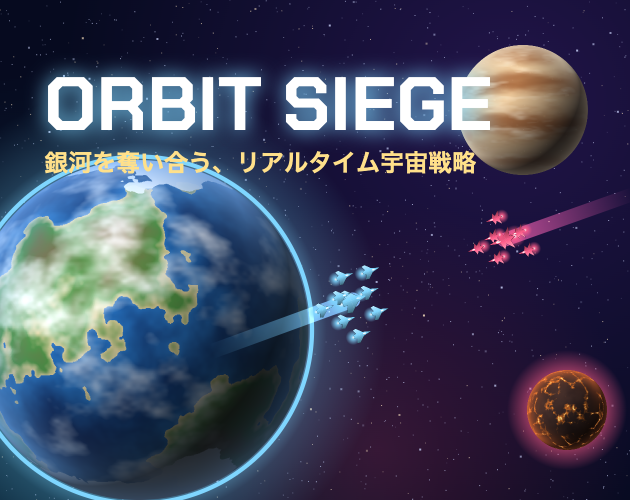
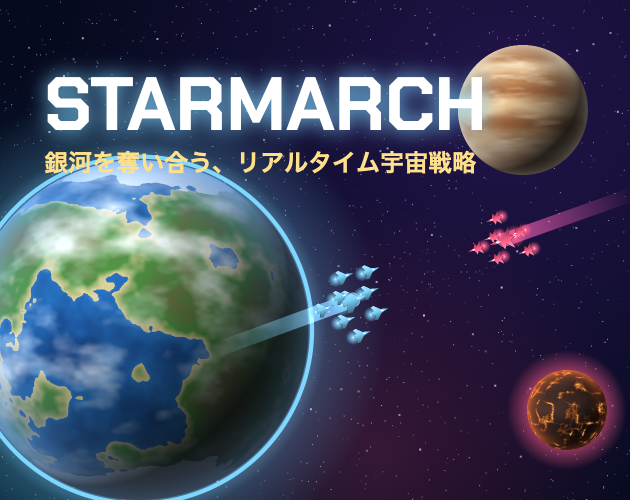
Rename to Starmarch, regenerate cover art

Changed region(s): [[0.0, 0.33, 0.4524, 0.96], [0.0603, 0.09, 0.9048, 0.27], [0.8444, 0.72, 0.9651, 0.9]]

diff --git a/public/index.html b/public/index.html
@@ -8,11 +8,11 @@
 <meta name="apple-mobile-web-app-capable" content="yes">
 <meta name="mobile-web-app-capable" content="yes">
 <meta name="apple-mobile-web-app-status-bar-style" content="black-translucent">
-<meta name="apple-mobile-web-app-title" content="Orbit Siege">
+<meta name="apple-mobile-web-app-title" content="Starmarch">
 <link rel="manifest" href="manifest.webmanifest">
 <link rel="icon" type="image/png" sizes="192x192" href="icons/icon-192.png">
 <link rel="apple-touch-icon" href="icons/apple-touch-icon.png">
-<title>Orbit Siege</title>
+<title>Starmarch</title>
 <link rel="preconnect" href="https://fonts.googleapis.com">
 <link rel="preconnect" href="https://fonts.gstatic.com" crossorigin>
 <link rel="stylesheet" href="https://fonts.googleapis.com/css2?family=Chakra+Petch:wght@500;700&family=Zen+Kaku+Gothic+New:wght@400;700;900&display=swap">
@@ -1269,7 +1269,7 @@ function gameOver(quit,why){
 }
 function titleScreen(){
   G.mode='title';G.speed=1;G.modalOpen=false;$('pauseTag').hidden=true;G.news=[];renderNews();renderSide(true);lastHud='';demo();updHud();
-  showOverlay(`<div class="panel"><p class="kicker">REAL-TIME GALACTIC CONQUEST</p><h1>ORBIT SIEGE</h1>
+  showOverlay(`<div class="panel"><p class="kicker">REAL-TIME GALACTIC CONQUEST</p><h1>STARMARCH</h1>
     <ul class="rules">
       <li>時間は流れ続ける。<b>Space で一時停止</b>しても命令できる</li>
       <li><b>見えているのは自軍の隣の惑星まで</b>。敵の位置も特産星も航路も、広げるか艦隊を送るまでわからない。見えない惑星は最後に見た姿のまま</li>

diff --git a/src/game.html b/src/game.html
@@ -1,4 +1,4 @@
-<title>Orbit Siege</title>
+<title>Starmarch</title>
 <meta name="claude:viewport-fit-sides" content="cover">
 <link rel="preconnect" href="https://fonts.googleapis.com">
 <link rel="preconnect" href="https://fonts.gstatic.com" crossorigin>
@@ -1253,7 +1253,7 @@ function gameOver(quit,why){
 }
 function titleScreen(){
   G.mode='title';G.speed=1;G.modalOpen=false;$('pauseTag').hidden=true;G.news=[];renderNews();renderSide(true);lastHud='';demo();updHud();
-  showOverlay(`<div class="panel"><p class="kicker">REAL-TIME GALACTIC CONQUEST</p><h1>ORBIT SIEGE</h1>
+  showOverlay(`<div class="panel"><p class="kicker">REAL-TIME GALACTIC CONQUEST</p><h1>STARMARCH</h1>
     <ul class="rules">
       <li>時間は流れ続ける。<b>Space で一時停止</b>しても命令できる</li>
       <li><b>見えているのは自軍の隣の惑星まで</b>。敵の位置も特産星も航路も、広げるか艦隊を送るまでわからない。見えない惑星は最後に見た姿のまま</li>

diff --git a/tools/sw.template.js b/tools/sw.template.js
@@ -1,5 +1,5 @@
 // Cache the game shell for offline play; fonts are cached the first time they load.
-const CACHE = 'orbit-siege-__VERSION__';
+const CACHE = 'starmarch-__VERSION__';
 const SHELL = ['./', './index.html', './manifest.webmanifest', './icons/icon-192.png', './icons/icon-512.png'];
 self.addEventListener('install', e => { e.waitUntil(caches.open(CACHE).then(c => c.addAll(SHELL))); self.skipWaiting(); });
 self.addEventListener('activate', e => {

diff --git a/public/sw.js b/public/sw.js
@@ -1,5 +1,5 @@
 // Cache the game shell for offline play; fonts are cached the first time they load.
-const CACHE = 'orbit-siege-ec44ae6d21';
+const CACHE = 'starmarch-48782eaed2';
 const SHELL = ['./', './index.html', './manifest.webmanifest', './icons/icon-192.png', './icons/icon-512.png'];
 self.addEventListener('install', e => { e.waitUntil(caches.open(CACHE).then(c => c.addAll(SHELL))); self.skipWaiting(); });
 self.addEventListener('activate', e => {

diff --git a/tools/build.py b/tools/build.py
@@ -3,7 +3,7 @@
 
 src/game.html is the single-file game as published in the Claude artifact (no <html>/<head>).
 This wraps it into a full document with PWA metadata, writes public/index.html,
-and packs dist/orbit-siege-web.zip for itch.io (index.html at the zip root).
+and packs dist/starmarch-web.zip for itch.io (index.html at the zip root).
 """
 import pathlib, re, zipfile, hashlib
 
@@ -24,7 +24,7 @@ HEAD = """<!doctype html>
 <meta name="apple-mobile-web-app-capable" content="yes">
 <meta name="mobile-web-app-capable" content="yes">
 <meta name="apple-mobile-web-app-status-bar-style" content="black-translucent">
-<meta name="apple-mobile-web-app-title" content="Orbit Siege">
+<meta name="apple-mobile-web-app-title" content="Starmarch">
 <link rel="manifest" href="manifest.webmanifest">
 <link rel="icon" type="image/png" sizes="192x192" href="icons/icon-192.png">
 <link rel="apple-touch-icon" href="icons/apple-touch-icon.png">
@@ -47,8 +47,8 @@ sw = (ROOT / "tools/sw.template.js").read_text(encoding="utf-8").replace("__VERS
 (pub / "sw.js").write_text(sw, encoding="utf-8")
 
 dist = ROOT / "dist"; dist.mkdir(exist_ok=True)
-with zipfile.ZipFile(dist / "orbit-siege-web.zip", "w", zipfile.ZIP_DEFLATED) as z:
+with zipfile.ZipFile(dist / "starmarch-web.zip", "w", zipfile.ZIP_DEFLATED) as z:
     for f in sorted(pub.rglob("*")):
         if f.is_file() and not f.name.startswith("."):
             z.write(f, f.relative_to(pub).as_posix())
-print("built", pub / "index.html", f"({len(out)//1024} KB)", "sw", ver, "->", dist / "orbit-siege-web.zip")
+print("built", pub / "index.html", f"({len(out)//1024} KB)", "sw", ver, "->", dist / "starmarch-web.zip")

diff --git a/README.md b/README.md
@@ -1,10 +1,10 @@
-# ORBIT SIEGE
+# STARMARCH
 
 リアルタイムで銀河を奪い合う宇宙戦略ゲーム（HTML1ファイル・外部ライブラリなし）。
 
 ## 構成
 - `src/game.html` … ゲーム本体（Claudeのアーティファクトとして公開している形そのまま）
-- `tools/build.py` … `src/game.html` を完全なHTML＋PWAに包んで `public/` に出力し、itch.io用の `dist/orbit-siege-web.zip` を作る
+- `tools/build.py` … `src/game.html` を完全なHTML＋PWAに包んで `public/` に出力し、itch.io用の `dist/starmarch-web.zip` を作る
 - `tools/sw.template.js` … オフライン用のService Worker（ビルドで版番号が入る）
 - `public/` … 公開するもの一式（GitHub Pages はこのフォルダを公開）
 - `store/` … itch.io の説明文・カバー画像・バナー
@@ -15,8 +15,8 @@ python3 tools/build.py
 ```
 
 ## 公開
-- itch.io：`dist/orbit-siege-web.zip` を「HTML」プロジェクトとしてアップロード（`store/itch-page.md` 参照）
-- GitHub Pages：`public/` を公開（Actions のワークフロー `.github/workflows/pages.yml`）
+- itch.io：`dist/starmarch-web.zip` を「HTML」プロジェクトとしてアップロード（`store/itch-page.md` 参照）
+- GitHub Pages：https://kazumal.github.io/starmarch/ （main への push で `.github/workflows/pages.yml` が自動公開）
 
 ## 保存データ
 ブラウザの localStorage（`orbitSiegeMeta`・`orbitSiegeBest3`）。公開先のドメインごとに別になる。

diff --git a/store/itch-page.md b/store/itch-page.md
@@ -13,7 +13,7 @@
 銀河を奪い合う、リアルタイム宇宙戦略。方針を決めれば艦隊は自動で動く。
 
 ## 本文（日本語）
-**ORBIT SIEGE** は、時間が流れ続ける銀河で惑星を奪い合うリアルタイム戦略ゲームです。
+**STARMARCH** は、時間が流れ続ける銀河で惑星を奪い合うリアルタイム戦略ゲームです。
 
 細かい操作は自動に任せ、あなたは「どこを攻め、いつ使い、何を守るか」を決めます。
 
@@ -29,7 +29,7 @@
 操作：ドラッグで出撃／なぞって一斉出撃／ダブルクリックで作戦・防衛拠点／Spaceで一時停止／ホイールで拡大縮小
 
 ## Description (English)
-**ORBIT SIEGE** is a real-time galactic strategy game where time never stops.
+**STARMARCH** is a real-time galactic strategy game where time never stops.
 
 Set the policy, and your fleets do the legwork — you decide where to strike, when to commit and what to hold.
 
